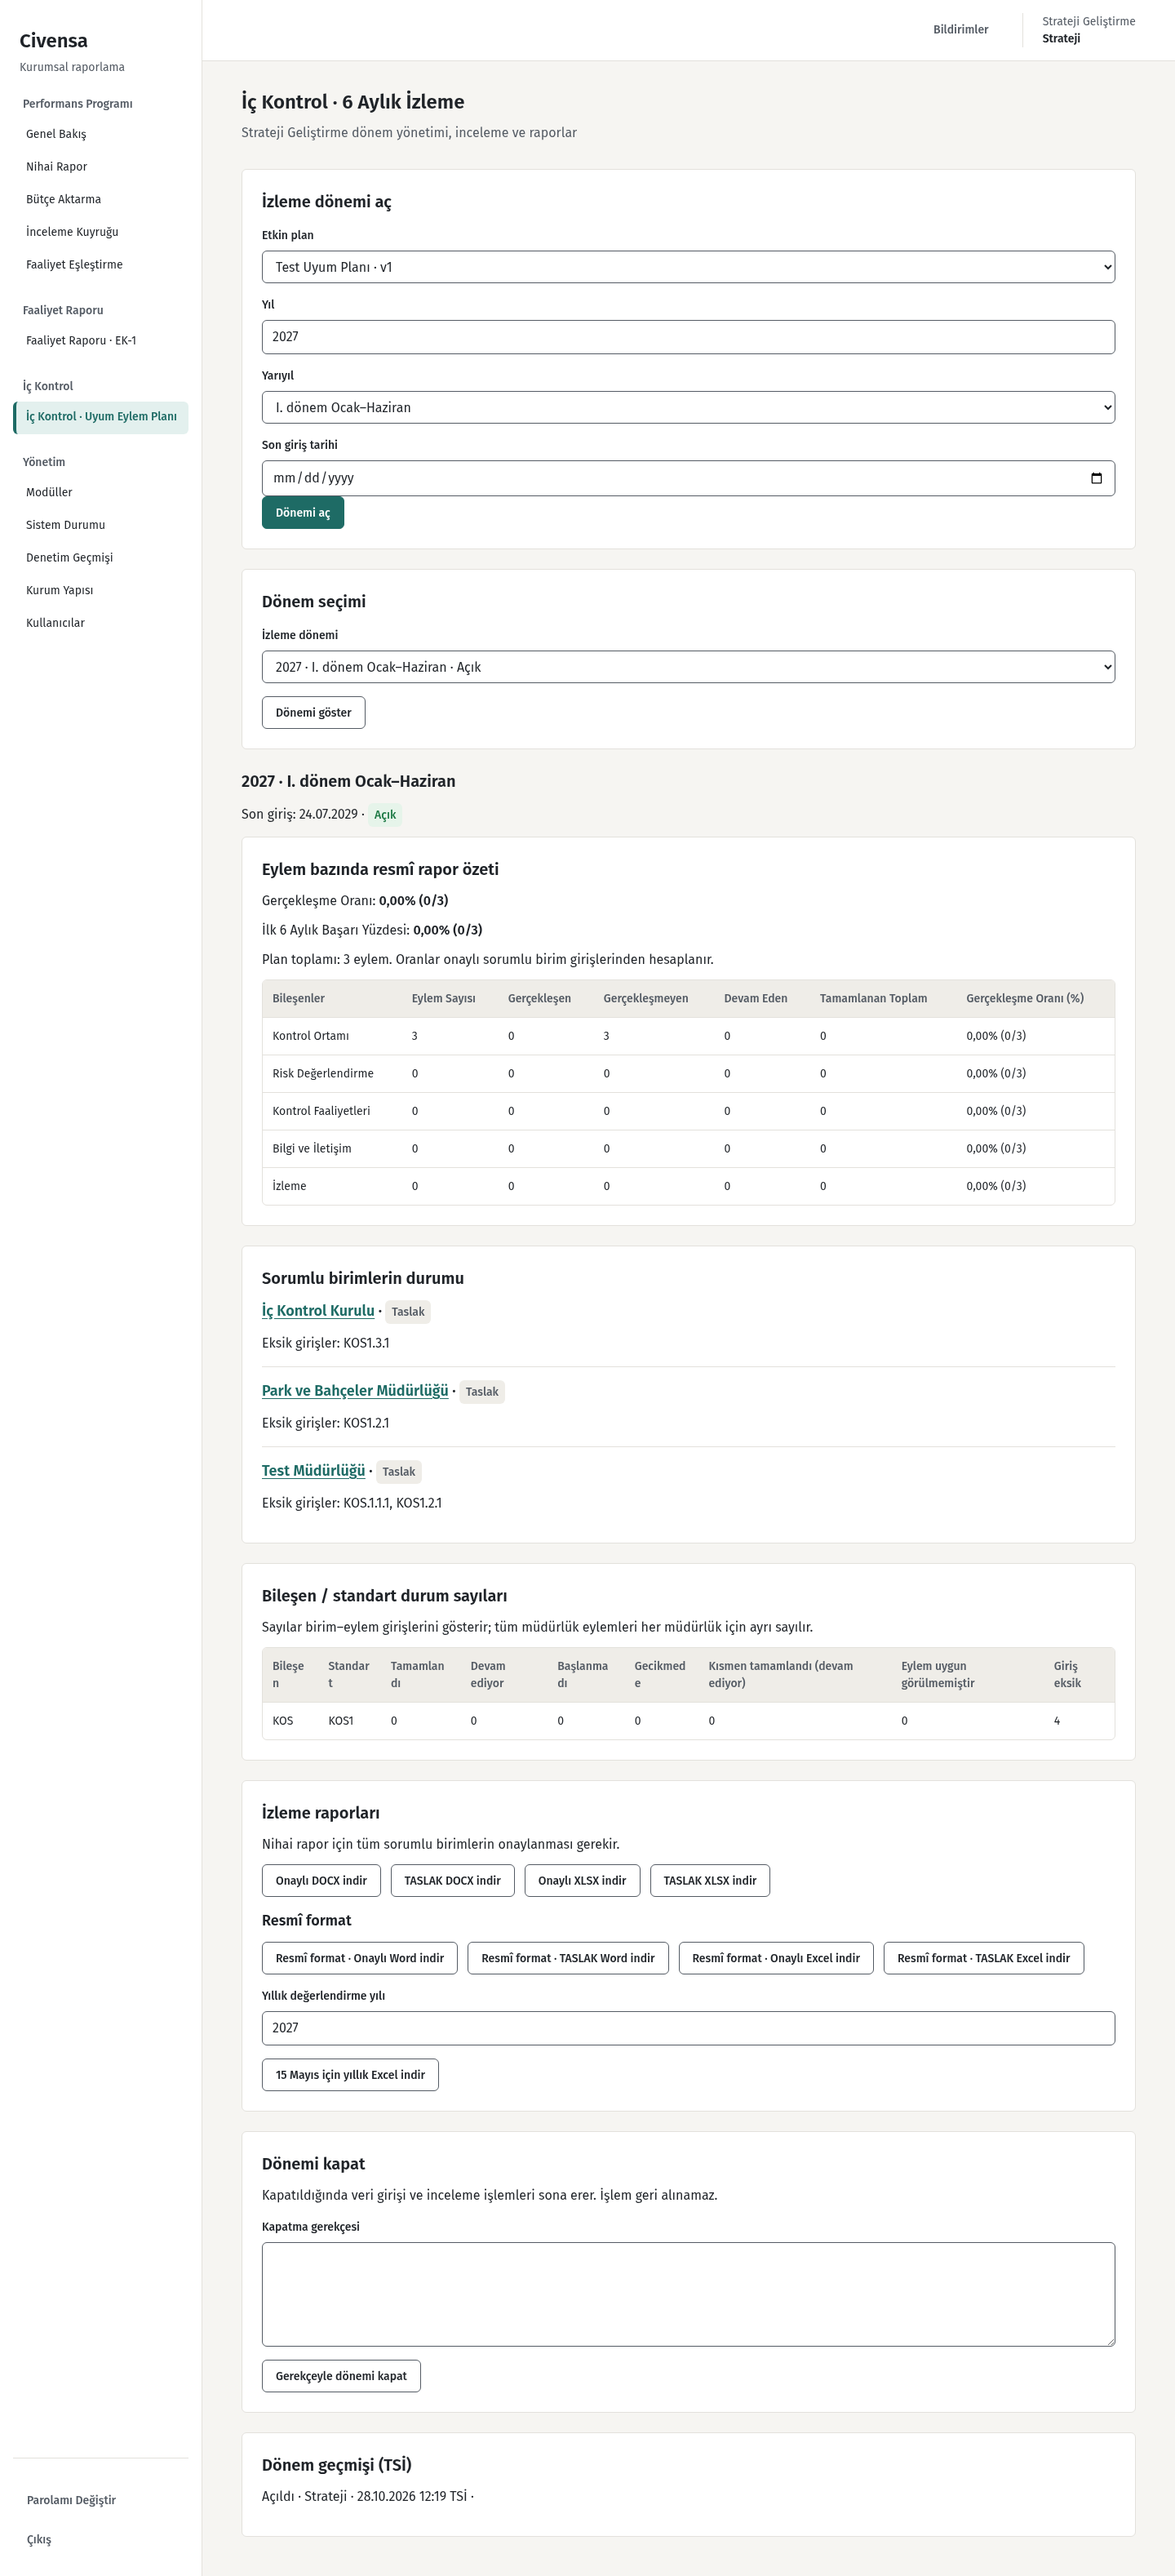
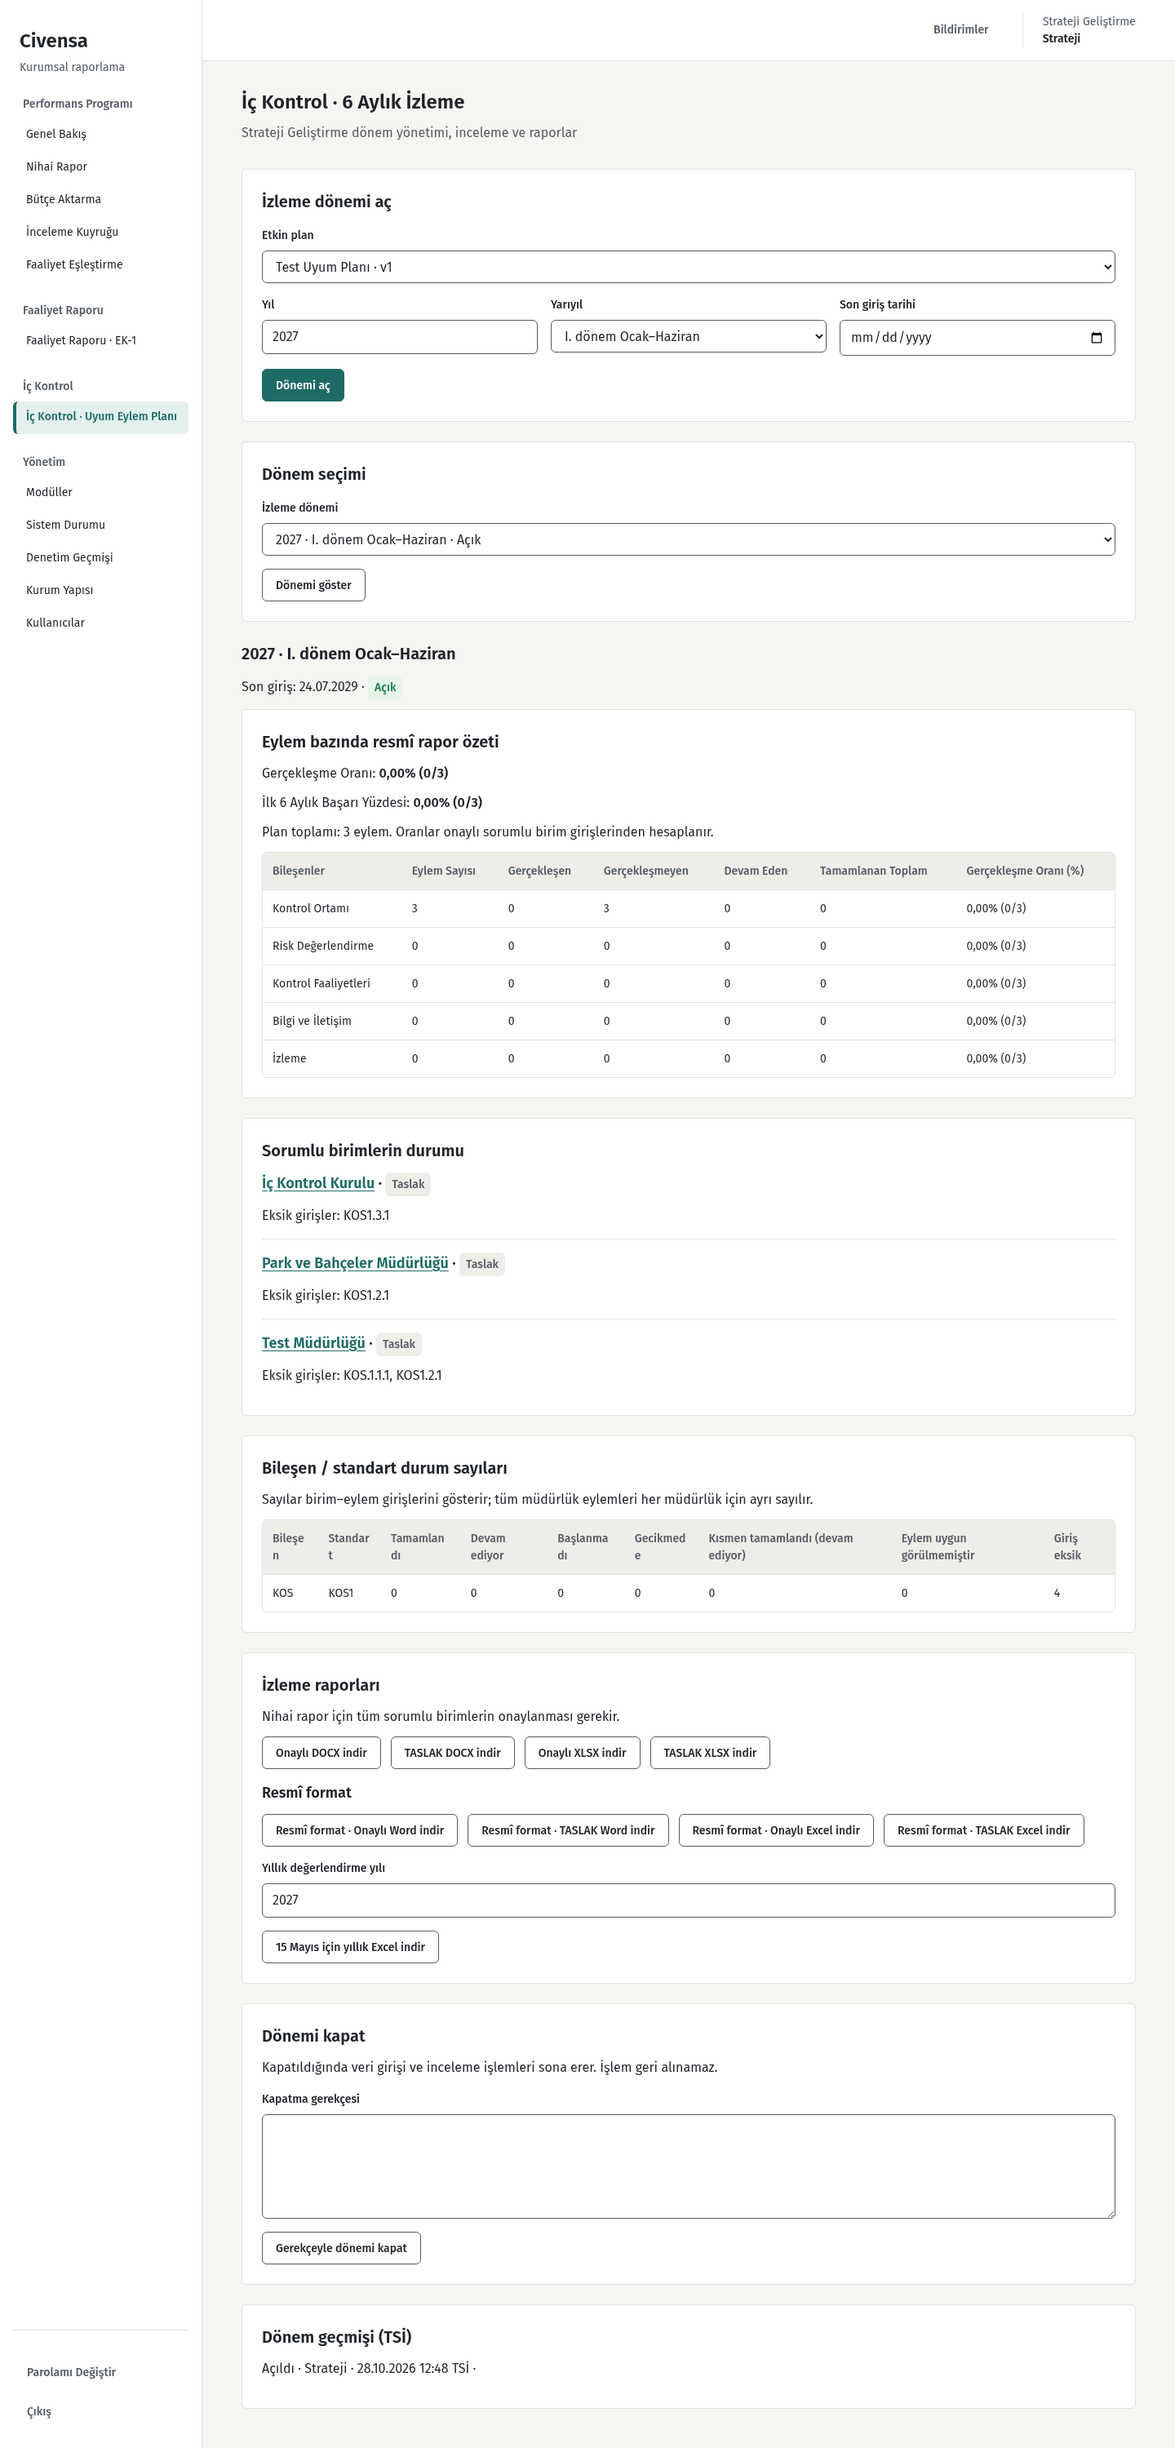
CIV-145 Arrange monitoring period fields in responsive columns

diff --git a/app/static/design/internal-control.css b/app/static/design/internal-control.css
@@ -67,3 +67,12 @@
 @media (max-width: 700px) {
   .internal-control-page :is(section,.card) { padding: var(--space-4); }
 }
+
+/* Keep the monitoring plan selector and submit action outside the short-field grid. */
+.internal-control-monitoring-page .ic-grid { margin-bottom: var(--space-4); }
+@media (min-width: 701px) {
+  .internal-control-monitoring-page .ic-grid { grid-template-columns: repeat(2,minmax(0,1fr)); }
+}
+@media (min-width: 1100px) {
+  .internal-control-monitoring-page .ic-grid { grid-template-columns: repeat(3,minmax(0,1fr)); }
+}

diff --git a/tests/test_internal_control_design.py b/tests/test_internal_control_design.py
@@ -157,7 +157,7 @@ def test_css_uses_only_existing_tokens():
 
 @pytest.mark.parametrize(('screen', 'width'),
     [(scene, width) for scene in SCENES for width in (1440, 390)]
-    + [('monitoring-populated', 1280)], indirect=['screen'])
+    + [('monitoring-populated', 1280), ('monitoring-populated', 1000)], indirect=['screen'])
 def test_frozen_browser_layout_contrast_and_navigation(browser, screen, ic_client, width):
     from playwright.sync_api import expect
     scene, path, response, html = screen
@@ -191,6 +191,27 @@ def test_frozen_browser_layout_contrast_and_navigation(browser, screen, ic_clien
             assert abs(root_width - available) <= 1
         else:
             assert root_width <= 704
+        if monitoring_page:
+            opening = root.locator('form[action="/internal-control/monitoring/open"]')
+            if opening.count():
+                grid = opening.locator('.ic-grid')
+                fields = [field.bounding_box() for field in grid.locator(':scope > label').all()]
+                columns = 3 if width >= 1100 else 2 if width > 700 else 1
+                for i, field in enumerate(fields):
+                    if i % columns:
+                        previous = fields[i - 1]
+                        assert abs(field['y'] - previous['y']) <= 1
+                        assert field['x'] >= previous['x'] + previous['width']
+                    elif i:
+                        previous = fields[i - columns]
+                        assert field['y'] >= previous['y'] + previous['height']
+                plan = opening.locator(':scope > label').bounding_box()
+                grid_box = grid.bounding_box()
+                submit = opening.locator('button').bounding_box()
+                assert plan['y'] + plan['height'] <= grid_box['y']
+                assert abs(plan['width'] - grid_box['width']) <= 1
+                assert submit['y'] >= grid_box['y'] + grid_box['height'] + 16
+                assert abs(submit['x'] - grid_box['x']) <= 1
         for form in root.locator('form[method=post]').all():
             expect(form.locator('[name=csrf_token]')).to_have_value(response.context['request'].session['csrf_token'])
         for badge in root.locator('.status').all():
